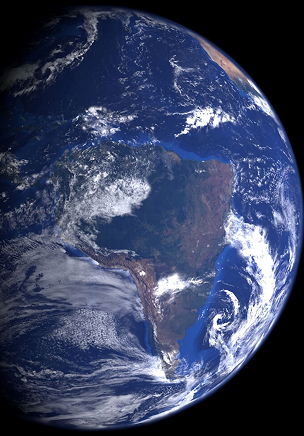
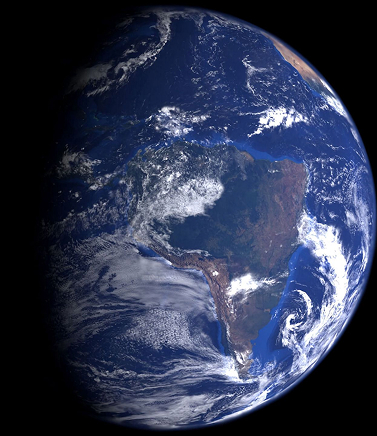
feat: add header, main and cart components

diff --git a/app/page.tsx b/app/page.tsx
@@ -1,65 +1,13 @@
-import Image from "next/image";
+import { Asteroids } from "./Asteroids";
+import { Cart } from "./Cart";
+import { Header } from "./Header";
 
 export default function Home() {
-  return (
-    <div className="flex flex-col flex-1 items-center justify-center bg-zinc-50 font-sans dark:bg-black">
-      <main className="flex flex-1 w-full max-w-3xl flex-col items-center justify-between py-32 px-16 bg-white dark:bg-black sm:items-start">
-        <Image
-          className="dark:invert"
-          src="/next.svg"
-          alt="Next.js logo"
-          width={100}
-          height={20}
-          priority
-        />
-        <div className="flex flex-col items-center gap-6 text-center sm:items-start sm:text-left">
-          <h1 className="max-w-xs text-3xl font-semibold leading-10 tracking-tight text-black dark:text-zinc-50">
-            To get started, edit the page.tsx file.
-          </h1>
-          <p className="max-w-md text-lg leading-8 text-zinc-600 dark:text-zinc-400">
-            Looking for a starting point or more instructions? Head over to{" "}
-            <a
-              href="https://vercel.com/templates?framework=next.js&utm_source=create-next-app&utm_medium=appdir-template-tw&utm_campaign=create-next-app"
-              className="font-medium text-zinc-950 dark:text-zinc-50"
-            >
-              Templates
-            </a>{" "}
-            or the{" "}
-            <a
-              href="https://nextjs.org/learn?utm_source=create-next-app&utm_medium=appdir-template-tw&utm_campaign=create-next-app"
-              className="font-medium text-zinc-950 dark:text-zinc-50"
-            >
-              Learning
-            </a>{" "}
-            center.
-          </p>
+    return (
+        <div className="app">
+            <Header />
+            <Asteroids />
+            <Cart />
         </div>
-        <div className="flex flex-col gap-4 text-base font-medium sm:flex-row">
-          <a
-            className="flex h-12 w-full items-center justify-center gap-2 rounded-full bg-foreground px-5 text-background transition-colors hover:bg-[#383838] dark:hover:bg-[#ccc] md:w-[158px]"
-            href="https://vercel.com/new?utm_source=create-next-app&utm_medium=appdir-template-tw&utm_campaign=create-next-app"
-            target="_blank"
-            rel="noopener noreferrer"
-          >
-            <Image
-              className="dark:invert"
-              src="/vercel.svg"
-              alt="Vercel logomark"
-              width={16}
-              height={16}
-            />
-            Deploy Now
-          </a>
-          <a
-            className="flex h-12 w-full items-center justify-center rounded-full border border-solid border-black/[.08] px-5 transition-colors hover:border-transparent hover:bg-black/[.04] dark:border-white/[.145] dark:hover:bg-[#1a1a1a] md:w-[158px]"
-            href="https://nextjs.org/docs?utm_source=create-next-app&utm_medium=appdir-template-tw&utm_campaign=create-next-app"
-            target="_blank"
-            rel="noopener noreferrer"
-          >
-            Documentation
-          </a>
-        </div>
-      </main>
-    </div>
-  );
+    );
 }

diff --git a/app/globals.css b/app/globals.css
@@ -1,24 +1,50 @@
 :root {
-  --background: #ffffff;
-  --foreground: #171717;
-}
-
-@theme inline {
-  --color-background: var(--background);
-  --color-foreground: var(--foreground);
-  --font-sans: var(--font-geist-sans);
-  --font-mono: var(--font-geist-mono);
-}
-
-@media (prefers-color-scheme: dark) {
-  :root {
-    --background: #0a0a0a;
-    --foreground: #ededed;
-  }
+  --background: #000;
+  --foreground: #FFF;
+  --title: #ff6b00;
+  --bg-cart: #1c1c1c;
 }
 
 body {
   background: var(--background);
   color: var(--foreground);
-  font-family: Arial, Helvetica, sans-serif;
+  font-family: Helvetica, Arial, sans-serif;
+}
+
+.app {
+  display: grid;
+  height: 100dvh;
+  overflow: hidden; /* скролл только в main */
+  grid-template-columns: 362px 402px 1fr;
+  grid-template-rows: auto 1fr;
+
+  grid-template-areas:
+    "header main empty"
+    "earthLogo  main cart";
+
+  box-sizing: border-box;
+}
+  
+@media(max-width: 768px) {
+  .app {
+    height: auto;
+    min-height: 100dvh;
+    overflow-y: auto;
+    overflow-x: hidden;
+    grid-template-columns: 1fr;
+    grid-template-rows: auto;
+    grid-template-areas: 
+      "header"
+      "main"
+      "cart"
+      "earthLogo";
+    column-gap: 0;
+    row-gap: 1rem;
+  }
+}
+
+@media(min-width: 1356px) {
+  .app {
+    grid-template-columns: 527px 402px 1fr;
+  }
 }

diff --git a/app/Asteroids/styles.module.css b/app/Asteroids/styles.module.css
@@ -1,0 +1,54 @@
+.asteroidsMain {
+  grid-area: main;
+  min-height: 0;        /* обязательно для скролла в grid */
+  overflow-y: auto;
+  overscroll-behavior: contain;
+  padding-top: 132px;
+  padding-right: 0.5rem;   /* место под скроллбар */
+}
+
+.asteroidsMainHeader {
+  display: flex;
+  flex-direction: column;
+  gap: 0.5rem;
+}
+
+.asteroidsMainTitle {
+  font-size: 28px;
+  line-height: 36px;
+  font-weight: 400;
+  margin: 0;
+}
+
+.unitSwitcher {
+  display: flex;
+  flex-direction: row;
+  gap: 5px;
+  align-items: center;
+  font-size: 16px;
+  line-height: 24px;
+}
+
+.unitSwitcherBtn {
+  color: var(--foreground);
+  background: none;
+  border: none;
+  cursor: pointer;
+  padding: 0;
+}
+
+.unitSwitcherBtn[aria-pressed="true"] {
+  font-weight: 700;
+  cursor: default;
+}
+
+.unitSwitcherBtn[aria-pressed="false"] {
+  text-decoration: underline;
+}
+
+@media(max-width: 768px) {
+  .asteroidsMain {
+    position: relative;
+    left: 65px; /* TODO пересмотреть после замены изображения*/
+  }
+}

diff --git a/app/Header/styles.module.css b/app/Header/styles.module.css
@@ -1,0 +1,40 @@
+.appHeader {
+  grid-area: header;
+  align-self: start;
+  display: flex;
+  flex-direction: column;
+  gap: 0.5rem;
+  padding: 1rem;
+  margin-bottom: 15px;
+}
+
+.appHeaderTitle {
+  font-family: var(--font-passion-one), Helvetica, sans-serif;
+  margin: 0;
+  font-size: 32px;
+  font-weight: 400;
+  color: var(--title);
+  letter-spacing: 0;
+}
+
+.appHeaderCompany,
+.appHeaderTagline {
+  margin: 0;
+  font-size: 16px;
+  line-height: 24px;
+}
+
+.earthPanelImage {
+  grid-area: earthLogo;
+  justify-self: start;
+  pointer-events: none;
+  /* transform: translateX(-19%);  TODO пересмотреть после замены изображения*/
+}
+
+@media(max-width: 768px) {
+  .earthPanelImage {
+    position: fixed;
+    top: 123px;
+    left: -265px; /* TODO пересмотреть после замены изображения*/
+  }
+}

diff --git a/app/Cart/styles.module.css b/app/Cart/styles.module.css
@@ -1,0 +1,27 @@
+.cartPanel {
+    grid-area: cart;
+    width: 100%;
+    max-width: 280px;
+  }
+  
+  .cartCard {
+    background: var(--bg-cart);
+    border-radius: 1rem;
+    padding: 1.25rem 1.5rem;
+  }
+  
+  .cartCardTitle {
+    margin: 0 0 0.5rem;
+    font-size: 1.25rem;
+    font-weight: 700;
+  }
+  
+  .cartCardSubmit {
+    padding: 0.875rem 1rem;
+    border: none;
+    border-radius: 1.5rem;
+    background: var(--title);
+    color: var(--foreground);
+    font-weight: 700;
+    cursor: pointer;
+  }

diff --git a/app/Asteroids/index.tsx b/app/Asteroids/index.tsx
@@ -1,0 +1,23 @@
+import styles from "./styles.module.css";
+
+export const Asteroids = () => {
+    return (
+        <main className={styles.asteroidsMain} id="main-content">
+            <header className={styles.asteroidsMainHeader}>
+                <h2 className={styles.asteroidsMainTitle}>Ближайшие подлёты астероидов</h2>
+
+                <div className={styles.unitSwitcher} role="group" aria-label="Единицы измерения расстояния">
+                    <button type="button" className={styles.unitSwitcherBtn} aria-pressed="true">
+                        в километрах
+                    </button>
+                    <span aria-hidden="true">|</span>
+                    <button type="button" className={styles.unitSwitcherBtn} aria-pressed="false">
+                        в лунных орбитах
+                    </button>
+                </div>
+            </header>
+
+            <div style={{ paddingTop: "16px" }}>Asteroid list</div>
+        </main>
+    );
+};

diff --git a/app/Header/index.tsx b/app/Header/index.tsx
@@ -1,0 +1,18 @@
+import Image from "next/image";
+import styles from "./styles.module.css";
+
+export const Header = () => {
+    return (
+        <>
+            <header className={styles.appHeader}>
+                <h1 className={styles.appHeaderTitle}>ARMAGEDDON 2023</h1>
+                <div>
+                    <p className={styles.appHeaderCompany}>ООО «Команда им. Б. Уиллиса».</p>
+                    <p className={styles.appHeaderTagline}>Взрываем астероиды с 1998 года.</p>
+                </div>
+            </header>
+
+            <Image className={styles.earthPanelImage} src="/earth.jpg" alt="" width={304} height={436} />
+        </>
+    );
+};

diff --git a/app/Cart/index.tsx b/app/Cart/index.tsx
@@ -1,0 +1,17 @@
+import styles from "./styles.module.css";
+
+export const Cart = () => {
+    return (
+        <aside className={styles.cartPanel} aria-label="Корзина">
+            {false && (
+                <section className={styles.cartCard}>
+                    <h2 className={styles.cartCardTitle}>Корзина</h2>
+                    <p>2 астероида</p>
+                    <button type="button" className={styles.cartCardSubmit}>
+                        Отправить
+                    </button>
+                </section>
+            )}
+        </aside>
+    );
+};